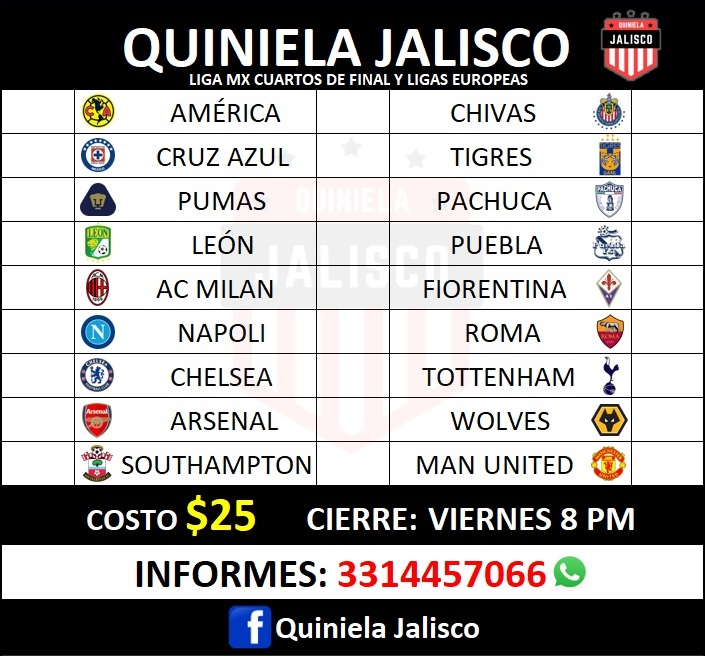
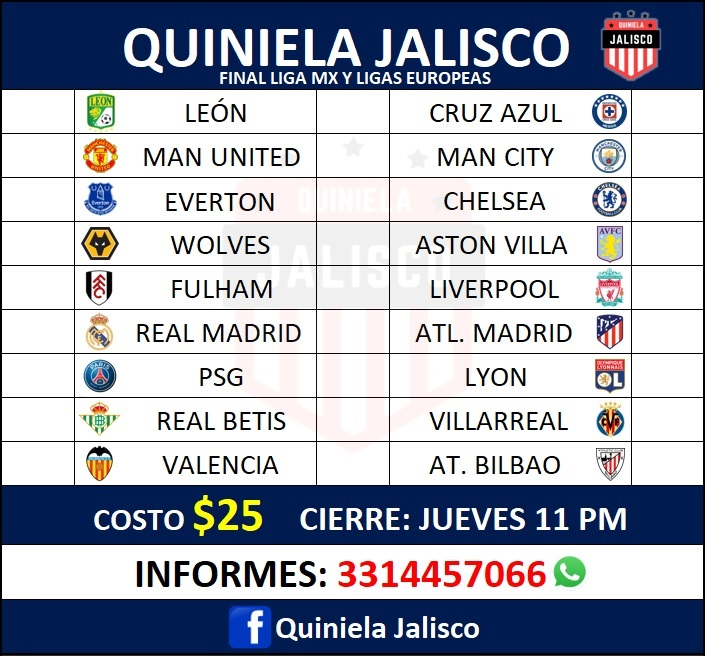
Final

diff --git a/styles.css b/styles.css
@@ -7,7 +7,7 @@
 
 .quiniela{
     margin: auto;
-    background-image: url("https://scontent-qro1-1.xx.fbcdn.net/v/t1.15752-9/128769920_309551250161473_2482621921114452823_n.png?_nc_cat=103&ccb=2&_nc_sid=ae9488&_nc_eui2=AeGGwAl-0uApOxm-IehtoovNeUymrLxlvtt5TKasvGW-2-Bc5VhyfjCmdM5mRZHsOcw-df7BBMLB-1BxXLDvHeu7&_nc_ohc=p_Fd8bS2WuwAX80eSMh&_nc_ht=scontent-qro1-1.xx&oh=d9c0c1982ddf26c884754a44a8ee3d85&oe=5FE9300B");
+    background-image: url("https://scontent.fgdl9-1.fna.fbcdn.net/v/t1.15752-9/130285050_393933865373687_5455941362232004253_n.png?_nc_cat=101&ccb=2&_nc_sid=ae9488&_nc_ohc=20FG-BmUmw0AX-bWaZz&_nc_ht=scontent.fgdl9-1.fna&oh=13894c4159b9d6b8ab4bbc9342129d2c&oe=5FF1BA5F");
     background-size: 100%;
     background-repeat: no-repeat;
     max-width: 400px;
@@ -79,8 +79,8 @@ h1{
     margin-top: 8%;
     border: solid 1px black;
     border-radius: 0 0 20px 20px;
-    background: -webkit-linear-gradient(0, black ,rgb(146,0,0) 80%);
-    background: linear-gradient(0, black,rgb(146,0,0) 80%);
+    background: -webkit-linear-gradient(0, black ,rgb(0,27,80) 80%);
+    background: linear-gradient(0, black,rgb(0,27,80) 80%);
 }
 
 h2,h3, #nombre{
